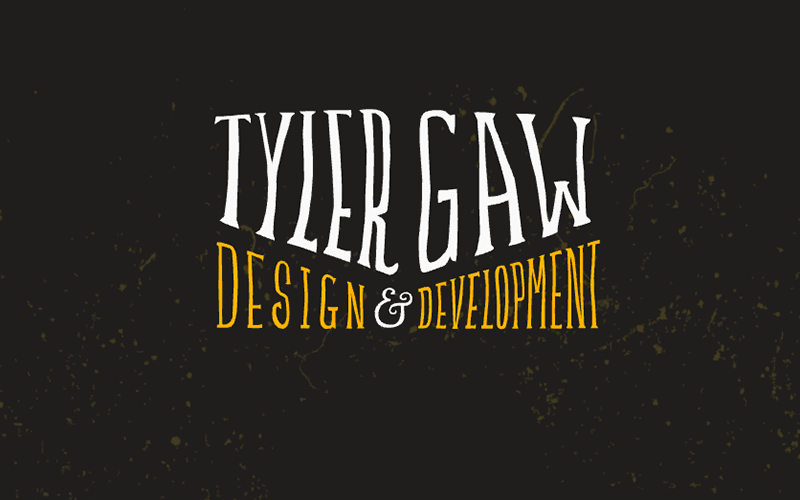
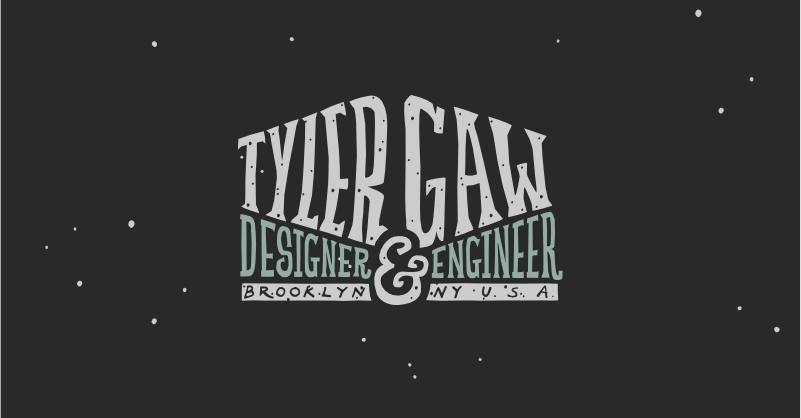
Picking at content styles, social image

diff --git a/layouts/home.html b/layouts/home.html
@@ -125,12 +125,12 @@
             </p>
 
             <h3>Recognition</h3>
-            <p>
-              Featured in net Magazine issue #300, December 2017 (photos)
-              Product Hunt
-              This Tweet by (find this)
-              “Quote about finding more useful info than LinkedIn” (ender)
-            </p>
+            <ul class="project-recognition">
+              <li>Featured in net Magazine issue #300, December 2017 [put photo here]</li>
+              <li><a href="https://www.producthunt.com/posts/limbo-2">#5 Product of the Day on Product Hunt</a></li>
+              <li>This Tweet (find this)</li>
+              <li>“Quote about finding more useful info than LinkedIn” (ender)</li>
+            </ul>
           </div>
         </div>
       </div>
@@ -225,11 +225,13 @@
 
             <h3>Design</h3>
             <p>
-              Did a bunch of this.
+              Did a bunch of this. Write up a bit on Dev Center process and iteration.
+            </p>
+            <p>
               <a href="https://imnikkilee.com/work/thegroundwork/">Nikki</a> and
               <a href="http://shiftsave.com/projects/the-groundwork/">Ivan</a> and
               <a href="http://jim-nielsen.com/blog/2017/designing-and-engineering-event-management-at-timshel/">Jim</a>
-              have great write-ups on their work.
+              have great write-ups about work they did.
             </p>
 
             <h3>Technology</h3>
@@ -237,12 +239,12 @@
               React, Redux, Immutable.js, CSS modules, Travis, Immutable
               infrastructure with AWS, next-level custom tooling for cloud
               infra management.
-              <a href="https://darrennewton.com/2016/12/21/components-a-la-carte/">Darren</a>
-              <a href="https://storify.com/hodgesmr/clinton-campaign-tech">Matt Storify</a>
+              Work in links to: <a href="https://darrennewton.com/2016/12/21/components-a-la-carte/">Darren’s post</a> and
+              <a href="https://storify.com/hodgesmr/clinton-campaign-tech">Matt’s Storify</a>
             </p>
 
             <h3>Recognition</h3>
-            <ul>
+            <ul class="project-recognition">
               <li>
                 <a href="https://qz.com/520652/groundwork-eric-schmidt-startup-working-for-hillary-clinton-campaign/">
                   <i>The stealthy, Eric Schmidt-backed startup that’s working to put Hillary Clinton in the White House</i>
@@ -345,7 +347,7 @@
             </p>
 
             <h3>Recognition</h3>
-            <ul>
+            <ul class="project-recognition">
               <li>
                 <a href="https://css-tricks.com/colorme-css-color-level-4">
                   CSS Tricks
@@ -439,14 +441,13 @@
             </p>
 
             <h3>Recognition</h3>
-            <ul>
+            <ul class="project-recognition">
               <li>
                 An email from former Apple automation product manager,
                 <a href="https://en.wikipedia.org/wiki/Sal_Soghoian">Sal</a>.
-                He sent me a short email to say he saw the post and thought it
+                He sent me a short note to say he saw the post and thought it
                 was cool and thanks for working with the technology. Of all the
-                recognition I got for this project, this was the most
-                affirming.
+                recognition I got for this project, this felt the best.
               </li>
               <li>
                 Got <a href="https://twitter.com/horse_js/status/516264252332470273">horse_js’d</a>

diff --git a/partials/meta.html b/partials/meta.html
@@ -8,9 +8,9 @@
 <meta property="og:description" content="{{meta.description}}">
 <meta name="twitter:description" content="{{meta.description}}">
 {{ else }}
-<meta name="description" content="Tyler Gaw is a Web Designer & Developer in Brooklyn, USA">
-<meta name="og:description" content="Tyler Gaw is a Web Designer & Developer in Brooklyn, USA">
-<meta name="twitter:description" content="Tyler Gaw is a Web Designer & Developer in Brooklyn, USA">
+<meta name="description" content="Tyler Gaw is a Designer & Engineer in Brooklyn, USA">
+<meta name="og:description" content="Tyler Gaw is a Designer & Engineer in Brooklyn, USA">
+<meta name="twitter:description" content="Tyler Gaw is a Designer & Engineer in Brooklyn, USA">
 {{/if}}
 
 {{#if meta.image }}
@@ -22,8 +22,8 @@
 <meta name="twitter:image:src" content="{{ site.url }}/images/social-default.png">
 <meta name="twitter:card" content="summary_large_image">
 {{/if}}
-<meta property="og:title" content="{{#if title }}{{ title }}{{else}}Tyler Gaw - Web Design & Development - Brooklyn, USA{{/if}}">
-<meta name="twitter:title" content="{{#if title }}{{ title }}{{else}}Tyler Gaw - Web Design & Development - Brooklyn, USA{{/if}}">
+<meta property="og:title" content="{{#if title }}{{ title }}{{else}}Tyler Gaw - Design & Engineer - Brooklyn, USA{{/if}}">
+<meta name="twitter:title" content="{{#if title }}{{ title }}{{else}}Tyler Gaw - Design & Engineer - Brooklyn, USA{{/if}}">
 
 <meta property="og:url" content="{{ site.url }}{{#if permalink }}{{ permalink }}{{/if}}">
 <meta name="twitter:url" content="{{ site.url }}{{#if permalink }}{{ permalink }}{{/if}}">

diff --git a/src/css/modules/home.css b/src/css/modules/home.css
@@ -64,6 +64,14 @@
   display: inline-block;
 }
 
+.project-recognition {
+  font-size: 90%;
+}
+
+.project-recognition li {
+  margin-top: 0.75em;
+}
+
 @media (min-width: 64em) {
   .project-contents {
     display: grid;
